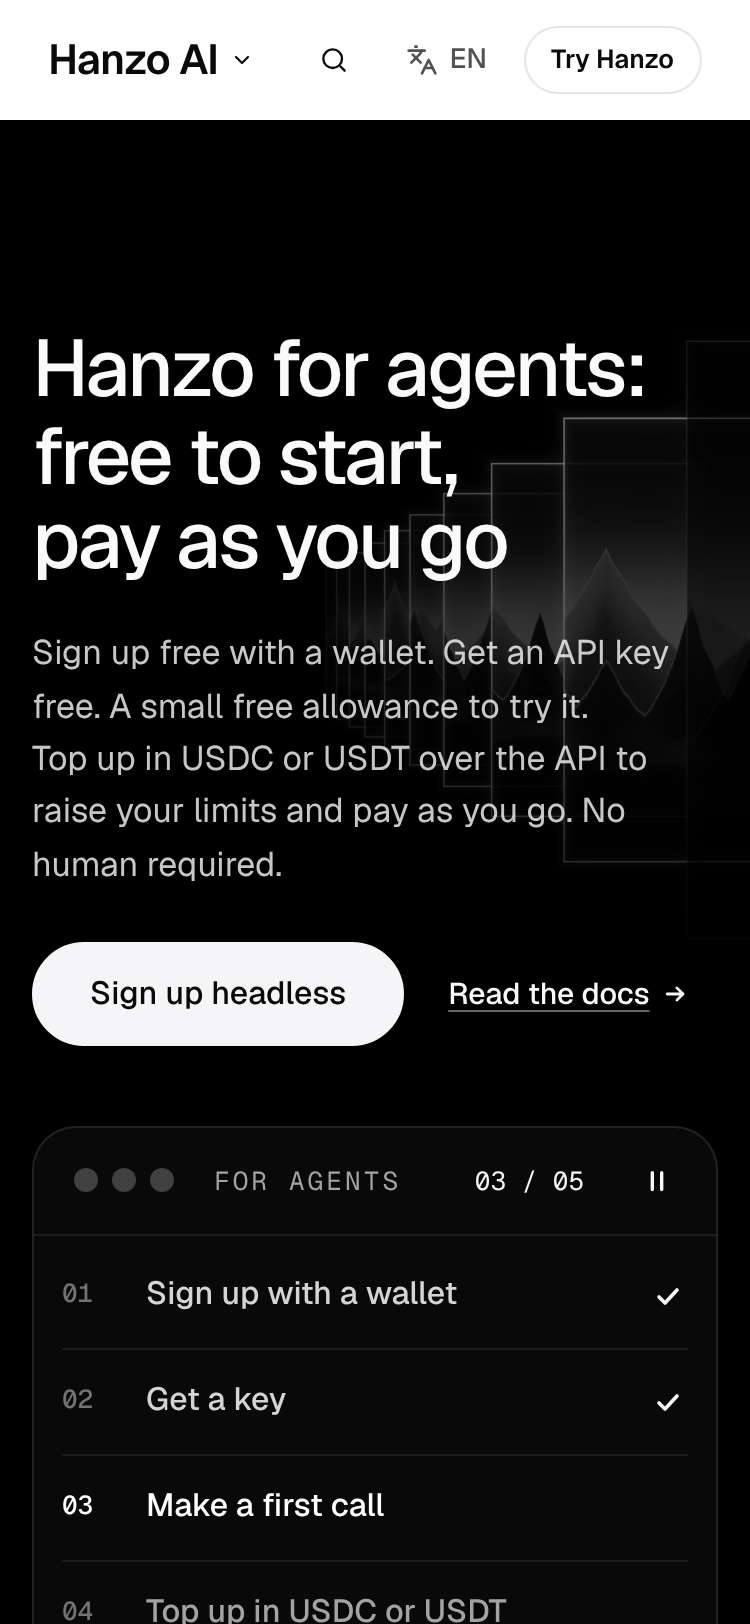
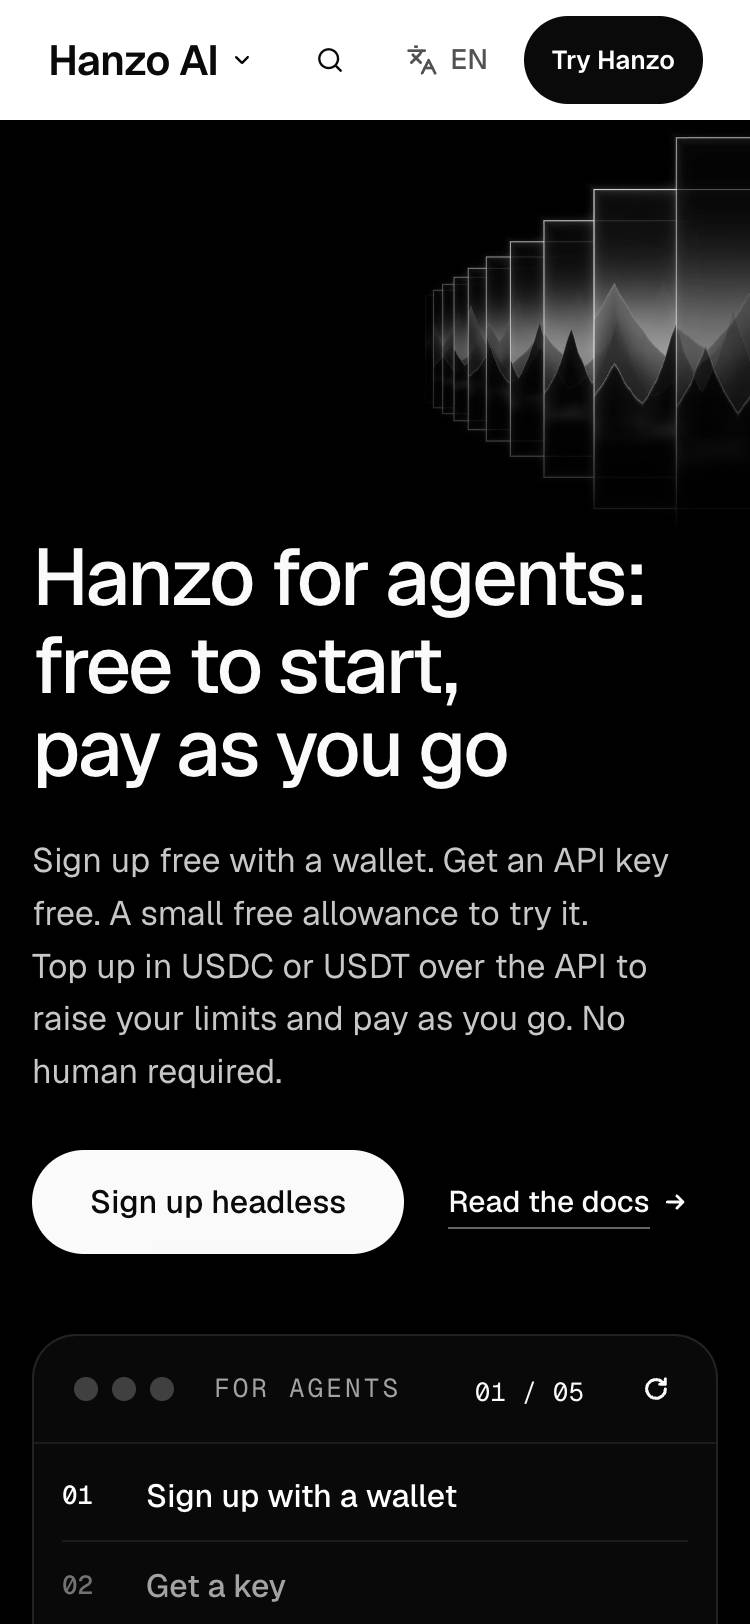
agents: Ready — five steps take the stage on scroll with typed requests, click holds a step, Koma film clear of copy, fixed-height hero card

diff --git a/components/pages/AgentsPage.css b/components/pages/AgentsPage.css
@@ -46,7 +46,8 @@ html:not(.js) .agt .agt-ctl { display: none; }
 /* ---------- 1. hero (the black room) ---------- */
 .agt-hero { position: relative; overflow: hidden; background: #000; color: #fafafa; padding: clamp(56px, 6vw, 88px) 0 clamp(72px, 9vw, 116px); }
 /* Koma's film, feathered into the black at its edge (no hard cut); never dimmed or filtered */
-.agt-bg { position: absolute; top: 0; left: 0; bottom: 0; width: 60%; pointer-events: none; -webkit-mask-image: linear-gradient(90deg, #000 62%, transparent 96%); mask-image: linear-gradient(90deg, #000 62%, transparent 96%); }
+/* it stands between the words and the run, clear of the paragraph */
+.agt-bg { position: absolute; top: 0; left: 17%; bottom: 0; width: 46%; pointer-events: none; -webkit-mask-image: linear-gradient(90deg, #000 62%, transparent 96%); mask-image: linear-gradient(90deg, #000 62%, transparent 96%); }
 .agt-film { position: absolute; inset: 0; width: 100%; height: 100%; max-width: none; object-fit: cover; object-position: 50% 45%; background: #000; }
 /* without a script Chrome draws its own controls on a video: the film is art, so none */
 .agt-film::-webkit-media-controls, .agt-film::-webkit-media-controls-enclosure, .agt-film::-webkit-media-controls-panel, .agt-film::-webkit-media-controls-start-playback-button, .agt-film::-webkit-media-controls-overlay-play-button { display: none !important; -webkit-appearance: none; }
@@ -182,7 +183,9 @@ html:not(.js) .agt-row { opacity: 1; transform: none; }
 .agt-resp-b { grid-area: 1 / 1; opacity: 0; visibility: hidden; transition: opacity .14s cubic-bezier(0, 0, .2, 1), visibility 0s .14s; }
 .agt-resp-b.on { opacity: 1; visibility: visible; transition: opacity .3s var(--em) .14s, visibility 0s .14s; }
 .agt-resp .agt-req { font-size: 12.5px; }
-.agt-resp-a { margin: 8px 0 0; font-size: 14px; line-height: 1.5; color: #fafafa; }
+.agt-resp-a { margin: 8px 0 0; font-size: 14px; line-height: 1.5; color: #fafafa; opacity: 0; transform: translateY(8px); transition: opacity .3s var(--em), transform .4s var(--em); }
+.agt-resp-b.ok .agt-resp-a { opacity: 1; transform: none; }
+html:not(.js) .agt-resp-a { opacity: 1; transform: none; }
 .agt-note { margin: 28px 0 0; padding-bottom: clamp(56px, 6vw, 88px); max-width: 72ch; font-size: 16px; line-height: 1.55; color: #404040; }
 /* JS off: every step's answer listed under the file */
 html:not(.js) .agt-resp-b { grid-area: auto; opacity: 1; visibility: visible; padding-bottom: 12px; }
@@ -237,13 +240,14 @@ html:not(.js) .agt-src { opacity: 1; }
 
 @media (prefers-reduced-motion: reduce) {
   .agt *, .agt *::before, .agt *::after { animation: none !important; }
-  .agt-step-b, .agt-resp-b, .agt-row, .agt-src { transition: none !important; }
+  .agt-step-b, .agt-resp-b, .agt-resp-a, .agt-row, .agt-src { transition: none !important; }
 }
 
 /* ---------- phones ---------- */
 @media (max-width: 900px) {
-  .agt-hero { padding: 96px 0 72px; }
-  .agt-bg { left: auto; right: -14%; top: 40px; width: 78%; height: 300px; bottom: auto; -webkit-mask-image: linear-gradient(180deg, #000 55%, transparent 98%), linear-gradient(90deg, transparent 0, #000 30%); mask-image: linear-gradient(180deg, #000 55%, transparent 98%), linear-gradient(90deg, transparent 0, #000 30%); -webkit-mask-composite: source-in; mask-composite: intersect; }
+  /* phones: the film stands above the words, never behind them */
+  .agt-hero { padding: 200px 0 72px; }
+  .agt-bg { left: auto; right: -4%; top: 0; width: 84%; height: 210px; bottom: auto; -webkit-mask-image: linear-gradient(180deg, #000 55%, transparent 98%), linear-gradient(90deg, transparent 0, #000 30%); mask-image: linear-gradient(180deg, #000 55%, transparent 98%), linear-gradient(90deg, transparent 0, #000 30%); -webkit-mask-composite: source-in; mask-composite: intersect; }
   .agt-hero-copy { padding-top: 8px; }
   .agt-hero-copy::before { inset: -40px -16px -24px -40px; background: radial-gradient(closest-side, rgba(0, 0, 0, .82), rgba(0, 0, 0, .62) 60%, rgba(0, 0, 0, 0)); }
   .agt-detail { margin: 0 14px 14px; padding: 14px; }

diff --git a/components/pages/AgentsPage.jsx b/components/pages/AgentsPage.jsx
@@ -16,7 +16,7 @@
      6. Proof: figures already in the copy, counting once (enters by stretch-scroll). 7. The Band, with the five ticks.
    Deck greys; colour only through Koma's film. Every word and line of code is Hanzo's. */
 import { useEffect, useMemo, useRef, useState } from 'react';
-import { motion, AnimatePresence, useInView } from 'motion/react';
+import { motion, AnimatePresence, useInView, useScroll, useMotionValueEvent } from 'motion/react';
 import { useDemo } from '../v2/AppDemo';
 import { EASE, Copy, useCalm } from '../ui';
 import { More, Film, Cta, Band, Stat } from '../kit';
@@ -289,10 +289,38 @@ function Script() {
   }, [va, vb]);
 
   const jump = (i) => {
-    setView(i);
+    setView(i); setTyp({ j: 0, k: 0 });
     const c = code.current, row = rows.current[chunks[i][0]];
     if (c && row) c.scrollTo({ top: Math.max(0, row.offsetTop - 18), behavior: calm ? 'auto' : 'smooth' });
   };
+
+  // the scene follows the scroll (no pin): as the file passes, each step takes the stage in turn; a click holds a
+  // step until the scroll crosses into the next one
+  const ed = useRef(null);
+  const last = useRef(0);
+  const { scrollYProgress } = useScroll({ target: ed, offset: ['start 0.7', 'end 0.4'] });
+  useMotionValueEvent(scrollYProgress, 'change', (p) => {
+    const i = Math.max(0, Math.min(LAST, Math.floor(p * STEPS.length)));
+    if (i !== last.current) { last.current = i; jump(i); }
+  });
+
+  // the step's requests write themselves under the code, then its answer lands (the server HTML has them whole)
+  const seen = useInView(ed, { once: true, amount: 0.3 });
+  const [typ, setTyp] = useState({ j: 99, k: 0 });
+  useEffect(() => { if (!still()) setTyp({ j: 0, k: 0 }); }, []);
+  useEffect(() => {
+    if (!seen || calm) { if (calm) setTyp({ j: 99, k: 0 }); return; }
+    const calls = CALLS[view];
+    let j = 0, k = 0, t;
+    const tick = () => {
+      k += 3;
+      if (k >= split(calls[j])[1].length) { j += 1; k = 0; if (j >= calls.length) { setTyp({ j: 99, k: 0 }); return; } setTyp({ j, k }); t = setTimeout(tick, 160); return; }
+      setTyp({ j, k }); t = setTimeout(tick, 14);
+    };
+    t = setTimeout(tick, 220);
+    return () => clearTimeout(t);
+  }, [view, seen, calm]);
+  const typed = typ.j >= 99;
 
   // phones: the index is a row of pills; the chosen step slides into its view (the row scrolls, never the page)
   const index = useRef(null);
@@ -309,7 +337,7 @@ function Script() {
         <p className="v2a-lede agt-sc-lede agx-v" style={ven(1, 90)}>Every step is one request. This file makes them all, as it was run against production.</p>
         <p className="v2a-folio agx-v" style={ven(2, 90)}>Headless</p>
       </div>
-      <div className="v2a-wrap agt-ed">
+      <div className="v2a-wrap agt-ed" ref={ed}>
         <ol className="agt-index" ref={index} aria-label="The five steps in the script">
           {STEPS.map(([t], i) => (
             <li key={t} className={'agx-v' + (view === i ? ' on' : '')} style={ven(i + 3, 70)}>
@@ -342,9 +370,9 @@ function Script() {
           {/* each step's requests and its answer, stacked in one cell sized by the tallest */}
           <div className="agt-resp" id="agt-resp">
             {STEPS.map(([t, d], i) => (
-              <div key={t} className={'agt-resp-b' + (view === i ? ' on' : '')} aria-hidden={view !== i}>
+              <div key={t} className={'agt-resp-b' + (view === i ? ' on' : '') + (view !== i || typed ? ' ok' : '')} aria-hidden={view !== i}>
                 <div className="agt-out x-mono">
-                  {CALLS[i].map((c, j) => <Req key={j} c={c} />)}
+                  {CALLS[i].map((c, j) => <Req key={j} c={c} shown={view !== i || typed || j < typ.j ? undefined : j > typ.j ? 0 : typ.k} caret={view === i && !typed && j === typ.j} />)}
                 </div>
                 <p className="agt-resp-a">{d}</p>
               </div>

diff --git a/docs/coverage/agents.md b/docs/coverage/agents.md
@@ -41,10 +41,10 @@ Done here: Links parity 4/4. The ask lands on `#headless` (the literal sequence)
 - n/a: Morph. No cards to pages.
 
 Done here: At 1470×801:
-- The black room, with Koma's film uncovered at the left middle and the 52px h1 over a gradient.
+- The black room, with Koma's film standing between the words and the terminal (clear of the paragraph) and the 52px h1 over a gradient.
 - On the right, the numbered terminal. It writes its first request within about 1 s and plays once over about 8 s.
 
-Order: hero, install, `#headless` (pinned), prompt, questions, `Band`.
+Order: hero, questions (live chat), prompt, `#headless` (unpinned; the scroll hands each step the stage), install, proof figures, `Band`.
 
 ## 4. Conversion system
 - [x] `<Cta>` only; no raw `.x-btn`
@@ -110,7 +110,7 @@ Done here: Kinds of movement:
 - arrival: the h1 line mask and the terminal entry
 - state: ticks land, the detail panel swaps at 300 ms, the reached index step grows
 - pointer: step and index previews
-- scroll: `agent.ts` only
+- scroll: `agent.ts` only, with no pin: as the file passes, each step takes the stage in turn (about every 190px at 1470), its lines light, and its requests write themselves under the code before its answer rises; a click holds a step until the scroll crosses into the next
 
 Koma's film plays once and rests on its last frame.
 
@@ -120,7 +120,7 @@ Koma's film plays once and rests on its last frame.
 - [x] Budgets met; nothing missing; alt on every image (`koma.webm` is 187 KB; the film is decorative, `aria-hidden`)
 - [x] No dimmed or filtered photo; 4+ real visuals together where the page has them (one film: the page has only Koma)
 
-Done here: The film is uncovered between the headline and the terminal. The only dimming is a gradient under the text side, and there is no filter.
+Done here: The film is uncovered between the headline and the terminal, moved off the paragraph at 1470 and above the h1 on phones, so no words sit on it. The only dimming is a gradient under the text side, and there is no filter.
 
 ## 11. Mobile and responsive
 - [x] 375×812 and 1470×801 pass with no overlap
@@ -128,7 +128,7 @@ Done here: The film is uncovered between the headline and the terminal. The only
 - [x] Every target 44px or more; every hover has a tap path
 - [x] Primary ask above the fold at 375×667
 
-Done here: On phone: the film sits behind the top, then the h1 (3 lines at 40px), lede, ask and link, with the terminal starting on the first screen. `agent.ts` plays once instead of pinning, and its index is a swipe row.
+Done here: On phone: the film stands above the words (never behind them), then the h1 (3 lines at 40px), lede, ask and link, with the terminal starting on the first screen. `agent.ts` plays once instead of pinning, and its index is a swipe row.
 
 ## 12. Accessibility (WCAG 2.2 AA)
 - [x] Contrast measured, text at 4.5:1 or better
@@ -145,7 +145,7 @@ Done here: The terminal's final frame (all requests, all steps ticked) is in the
 - [x] No poller; no third-party request before consent
 - [x] Nothing heavy run on James's laptop
 
-Done here: CLS is 0.011 at 1470×801 and 0.000 at 375×812, down from 0.18 and 0.21. Requests are written into nodes through refs. The demo clock pauses off screen and in hidden tabs.
+Done here: CLS is 0.0008 at 1470×801 and 0.0012 at 375×812 (walked 7 Nov); the hero run card holds 552px (desktop) and 559px (phone) through all five steps. Requests are written into nodes through refs. The demo clock pauses off screen and in hidden tabs.
 
 ## 14. SEO and machine files
 - [x] Title and description match live (unchanged)
@@ -182,4 +182,4 @@ Done here: JS off and reduced motion show the finished run and the whole script 
 - [x] `V2: <score>/10 <one line>` in the page file's top comment (after review)
 - [x] Review read: `docs/review/agents.md` verdict 8 or more (the critic gave 6 before these fixes; pending re-review)
 
-Done here: Proof is in `docs/gallery/agents/` (`desktop.mp4`, `desktop.jpg`, `phone-1..3.jpg`).
+Done here: Proof is in `docs/gallery/agents/` (`desktop-hero.jpg`, `phone-1..3.jpg`: hero, the script mid-scene, the proof row; plus the older `desktop.mp4`, `desktop.jpg`).

diff --git a/docs/review/agents.md b/docs/review/agents.md
@@ -1,4 +1,6 @@
 # /agents — James-eye review
+
+Ready: 7 Nov 21:35, held up next to /api and /affiliate (James's new bar, no score). Five steps take the stage in turn as you scroll (no pin), requests type in under the code, click holds a step; Koma film clear of the copy; hero card fixed height. taste/unique/parity OK (221/221, 4/4); 0 console errors, no overflow at 1470 and 375. Shared, not this page: header ask swap lives in components/Ask.jsx; cookie banner floats.
 Reviewed: 2026-11-07 16:40 UTC, walked at 1470x801 and 375x812 (touch). I filmed it with motion.mjs (shots/agents/d.webm, p.webm and the sheets) and ran my own Playwright walks: idle, hover, press, step click, FAQ, JS off and reduced motion.
 Verdict: 5/10
 First complaint: "The top's nice, the little run ticks through by itself. Then I scroll and it's a document. Code, more code, a big block of text, questions. Nothing comes in, nothing goes out, it just sits there. And why does the box in the hero keep getting taller?"
